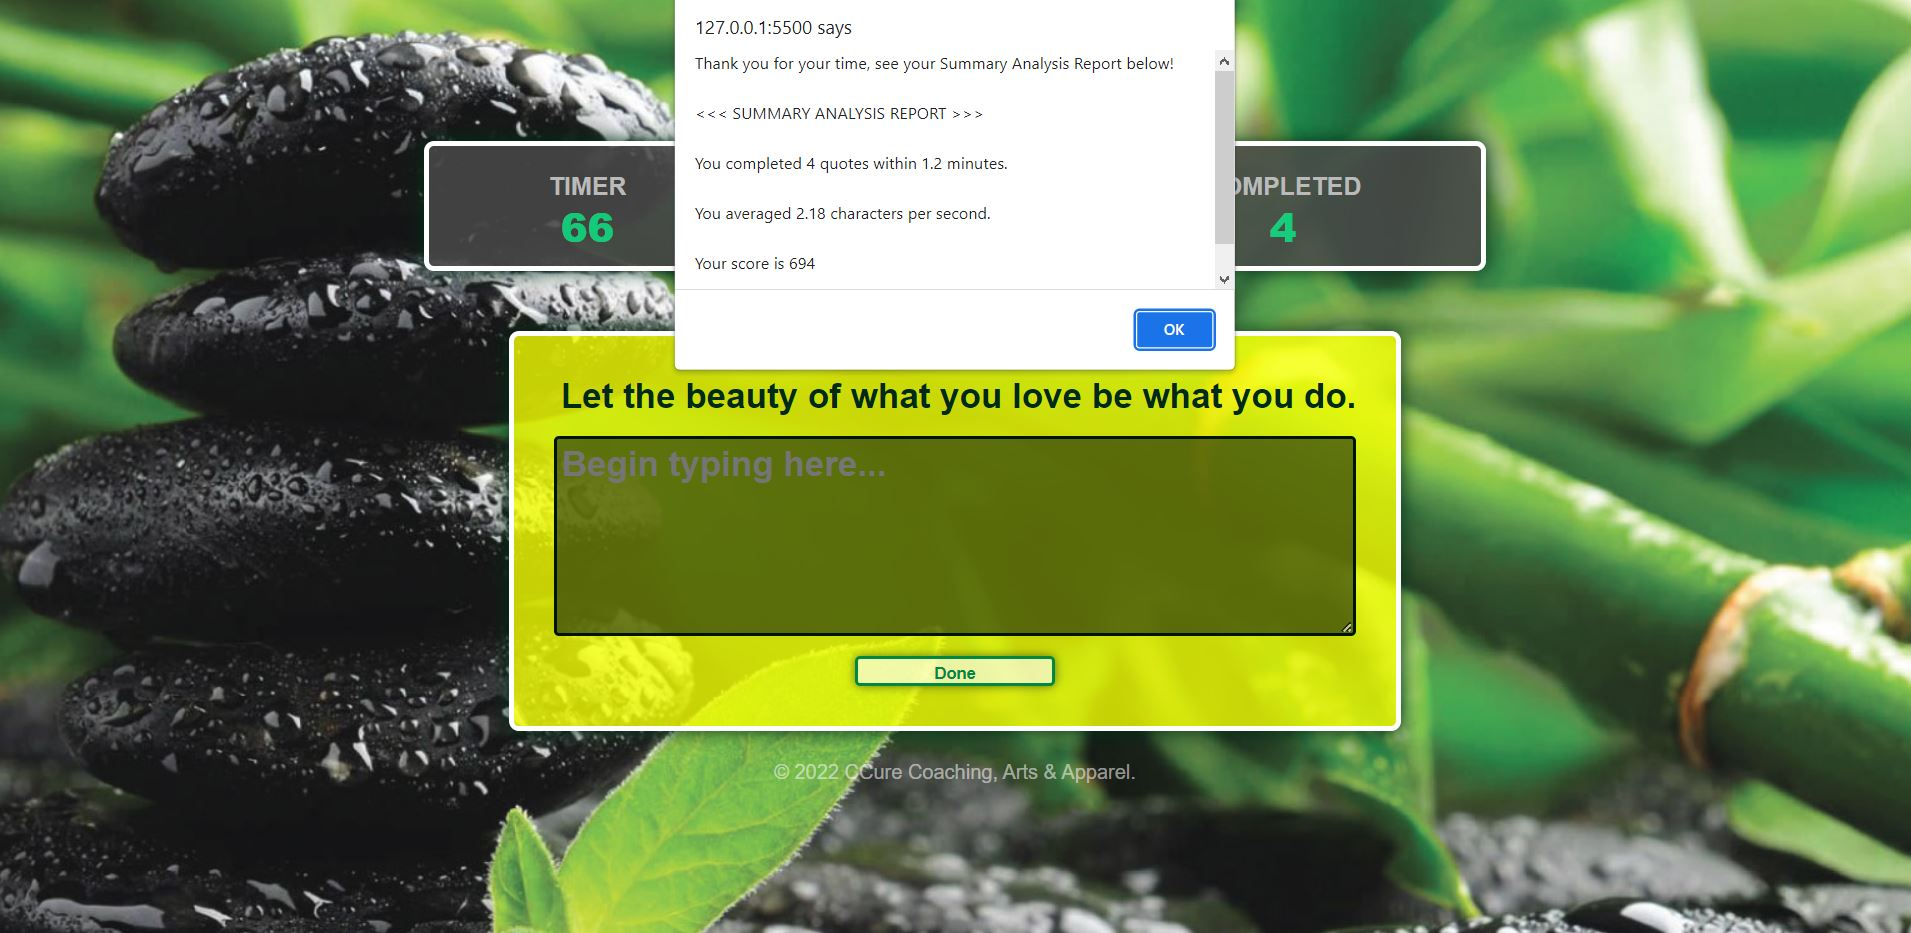
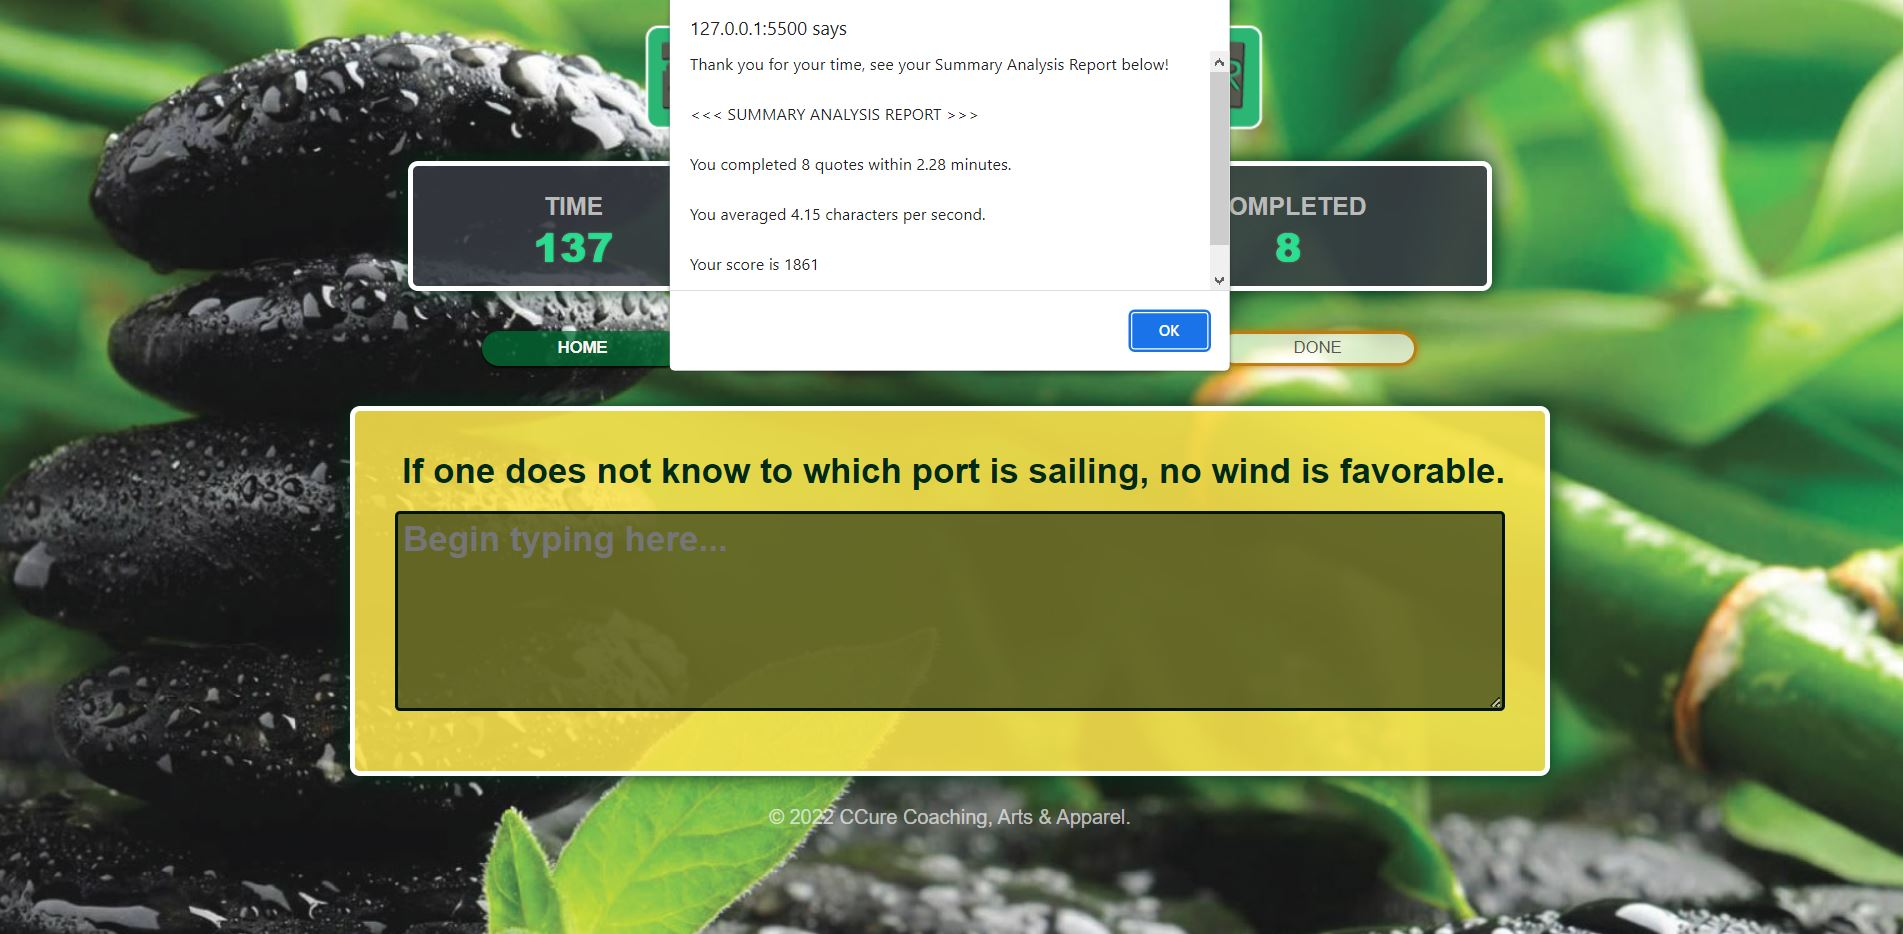
Updated screenshots

diff --git a/assets/css/style.css b/assets/css/style.css
@@ -22,7 +22,7 @@ body {
 
 .logo {
     margin-top: -16rem;
-    margin-bottom: -12rem;
+    margin-bottom: -10rem;
 }
 
 .logo-home {
@@ -320,7 +320,7 @@ footer {
 }
 
 .highscore {
-    background-color: rgba(250, 227, 76, 0.749);
+    background-color: rgba(250, 227, 76, 0.881);
     border: .25rem solid rgb(255, 255, 255);
 }
 

diff --git a/highsccore.html b/highsccore.html
@@ -40,6 +40,8 @@
             </section>
         </div>
     </div>
+    <footer>© 2022 CCure Coaching, Arts & Apparel.</footer>
+
 </body>
 <script src="./game.js"></script>
 

diff --git a/homescreen.html b/homescreen.html
@@ -26,6 +26,8 @@
 
         </div>
     </div>
+    <footer>© 2022 CCure Coaching, Arts & Apparel.</footer>
+
 </body>
 <script src="./game.js"></script>
 

diff --git a/README.md b/README.md
@@ -26,9 +26,20 @@ Follow in-game prompts
 ## Screenshots
 Below is a screenshot of the project:
 
-![Image of HomePage](./assets/images/homescreen_updated.jpg)
+![Image of HomeScreen](./assets/images/homescreen_main.jpg)
+
+
+![Image of PlayScreenIdle](./assets/images/playscreen-idle.jpg)
+
+
+![Image of PlayScreenActive](./assets/images/playscreen_updated.jpg)
+
 
 ![Image of SummaryReport](./assets/images/summary-report.jpg)
+
+
+![Image of HighscoreScreen](./assets/images/highscore-screen.jpg)
+
 
 ---
 © 2022 CCure Coaching, Arts & Apparel.
